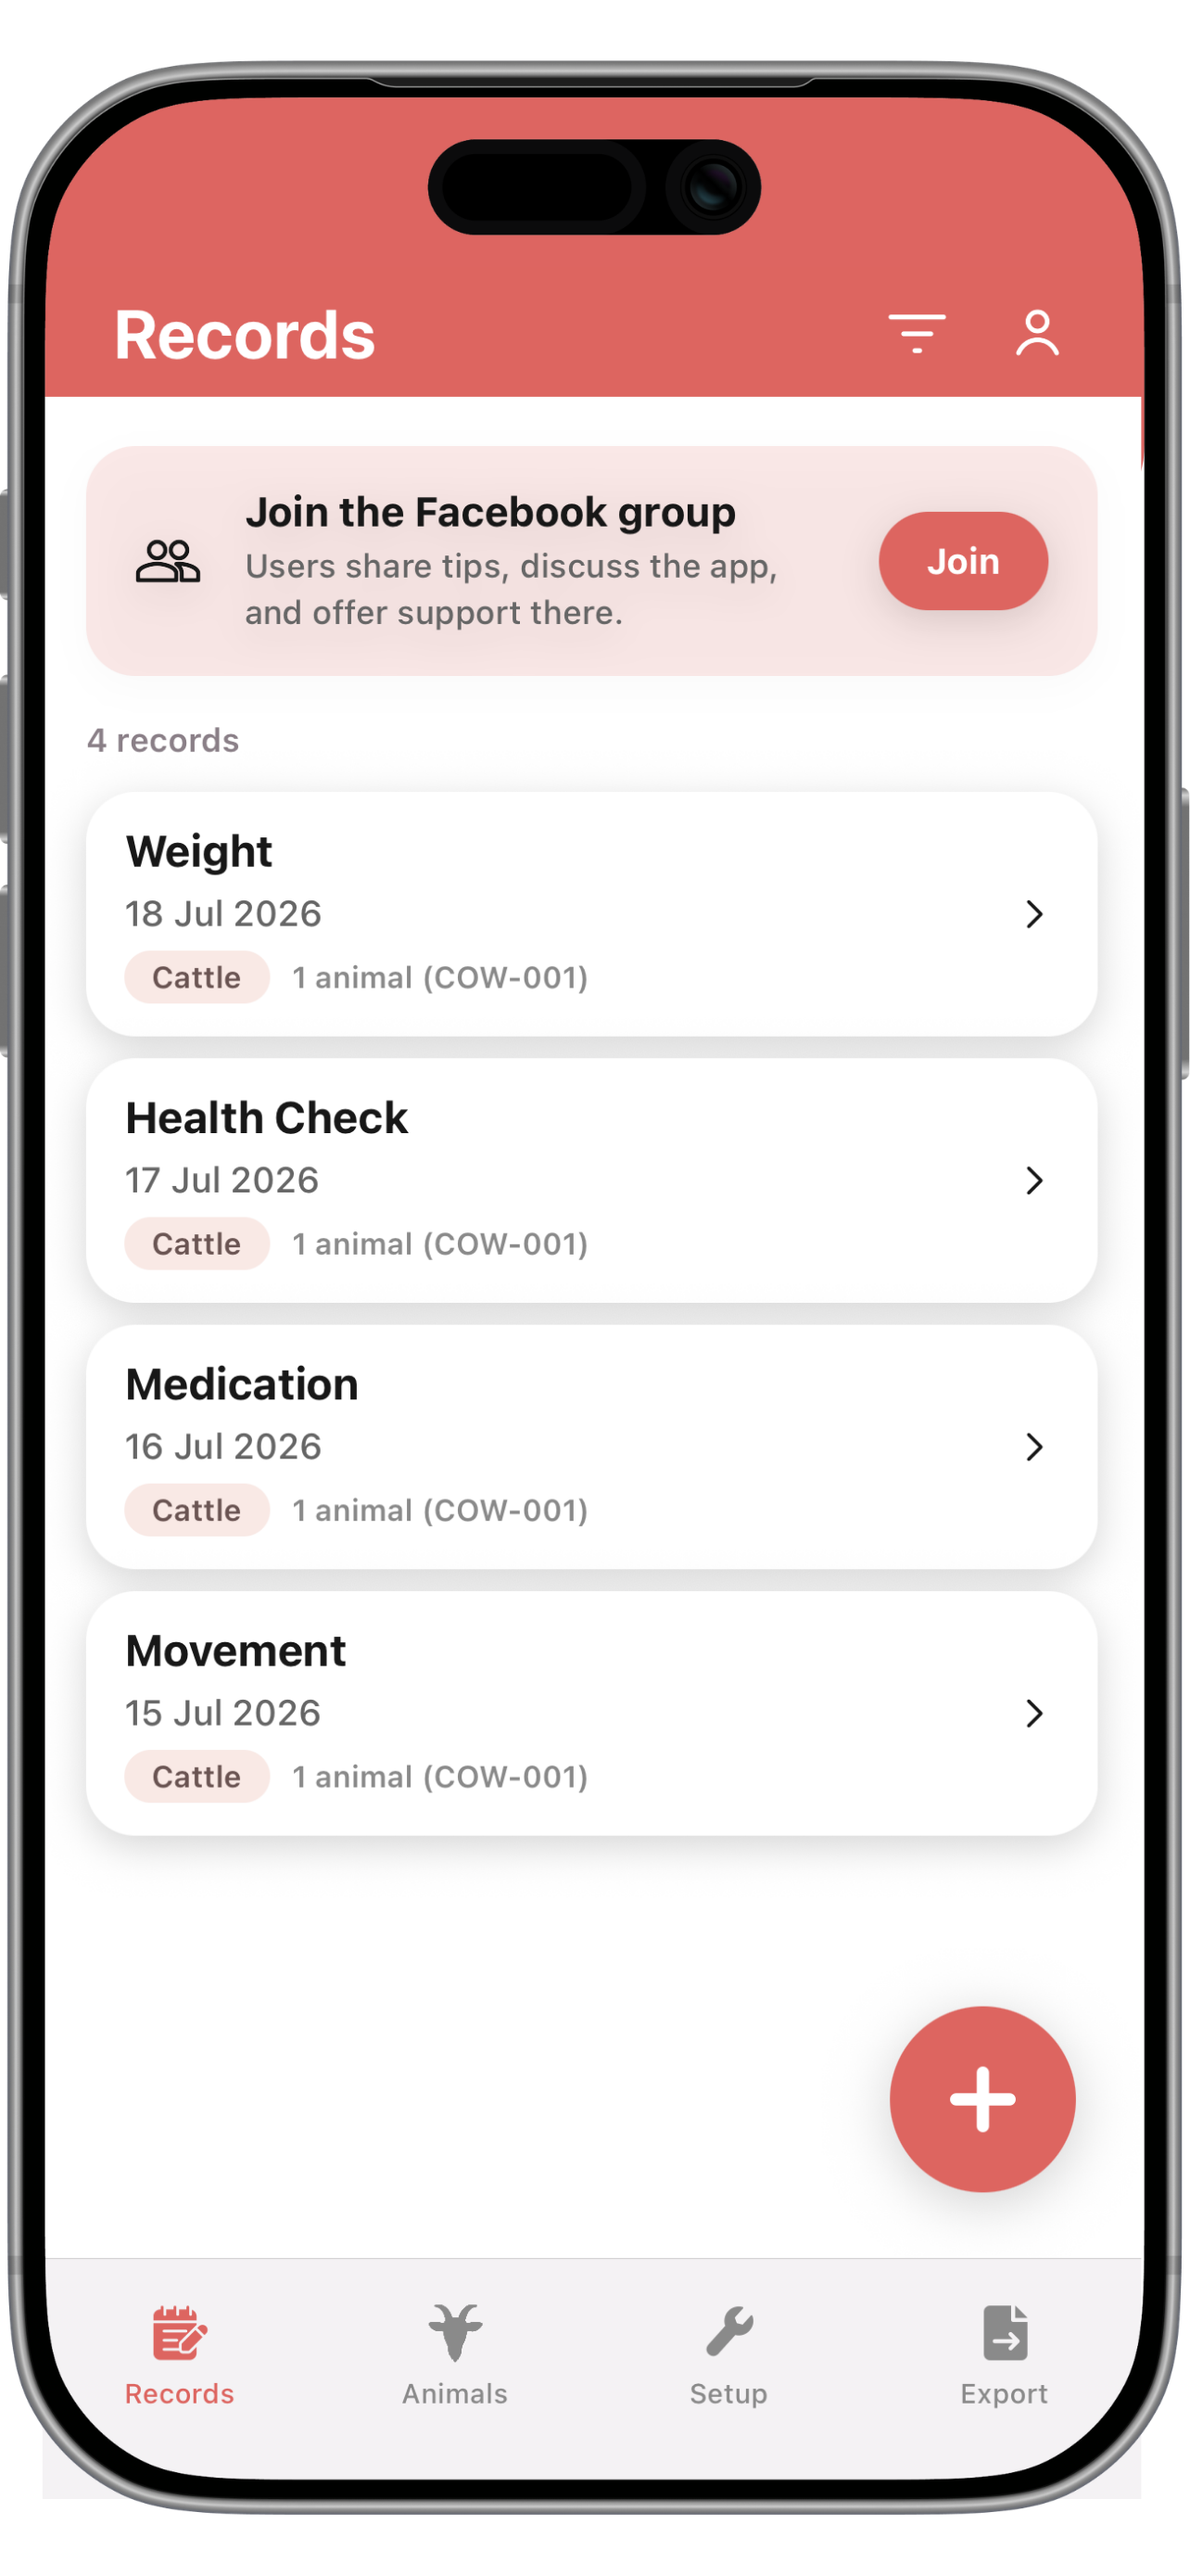
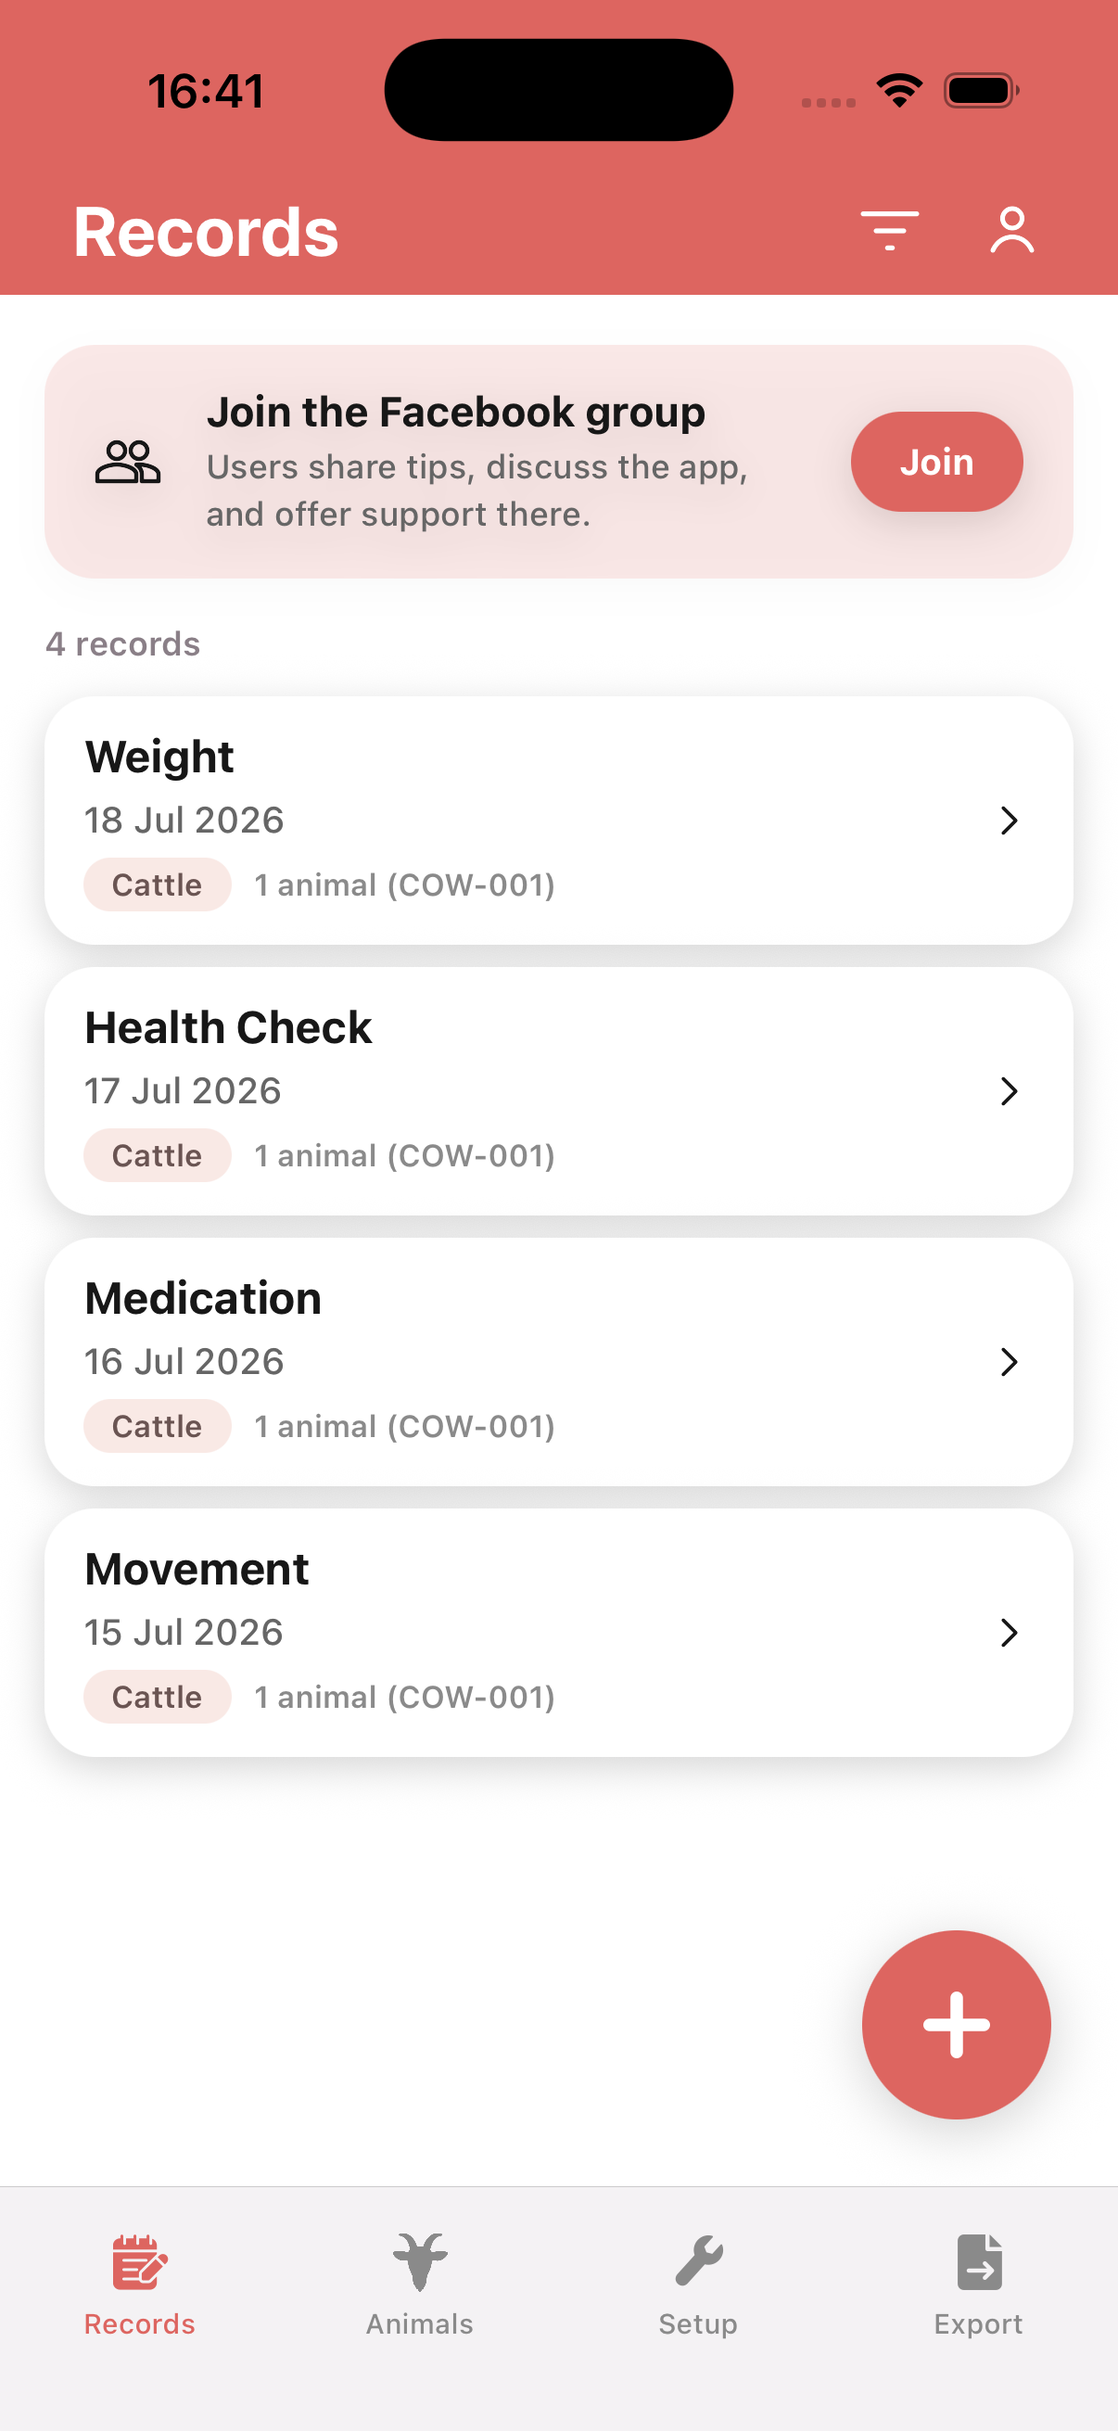
Replace website phone mockups with screenshots

Changed region(s): [[0.0, 0.0, 1.0, 0.9886]]

diff --git a/docs/styles.css b/docs/styles.css
@@ -314,95 +314,51 @@ h2,
   gap: 20px;
 }
 
-.hero-phone-stack {
+.hero-shot-stack {
   position: relative;
-  width: min(360px, 100%);
-  min-height: 560px;
+  width: min(520px, 100%);
+  min-height: 420px;
 }
 
-.hero-phone,
-.phone-placeholder {
-  width: min(270px, 100%);
-  aspect-ratio: 9 / 18;
-  padding: 14px;
-  border-radius: 32px;
-  background: #111;
-  box-shadow: 0 28px 50px rgba(0, 0, 0, 0.16);
+.hero-shot,
+.screenshot-frame {
+  margin: 0;
+  overflow: hidden;
+  border-radius: 26px;
+  background: rgba(255, 255, 255, 0.88);
+  border: 1px solid rgba(31, 27, 23, 0.08);
+  box-shadow: 0 28px 50px rgba(0, 0, 0, 0.14);
 }
 
-.hero-phone-live {
-  width: min(300px, 100%);
-  box-shadow: none;
+.hero-shot {
+  position: absolute;
+  width: min(320px, 100%);
 }
 
-.hero-phone-front {
+.hero-shot-front {
   position: relative;
-  left: 170px;
+  left: 192px;
+  top: 18px;
   z-index: 2;
   transform: rotate(5deg);
 }
 
-.hero-phone-back {
-  position: absolute;
-  inset: 34px auto auto 34px;
+.hero-shot-back {
+  inset: 26px auto auto 16px;
   z-index: 1;
   transform: rotate(-5deg);
   opacity: 0.98;
 }
 
-.hero-phone-live img {
+.hero-shot img,
+.feature-shot {
   width: 100%;
-  height: calc(100% - 0px);
-  object-fit: cover;
-  border-radius: 22px;
-}
-
-.phone-shot {
-  width: 100%;
-  height: calc(100% - 36px);
-  object-fit: cover;
-  border-radius: 22px;
   display: block;
 }
 
-.phone-top {
-  width: 42%;
-  height: 22px;
-  margin: 0 auto 14px;
-  border-radius: 999px;
-  background: rgba(255, 255, 255, 0.08);
-}
-
-.placeholder-body {
-  height: calc(100% - 36px);
-  border-radius: 22px;
-  background:
-    linear-gradient(180deg, #f5f5f3 0%, #eceae5 100%),
-    repeating-linear-gradient(
-      180deg,
-      rgba(31, 27, 23, 0.06) 0,
-      rgba(31, 27, 23, 0.06) 1px,
-      transparent 1px,
-      transparent 72px
-    );
-  display: flex;
-  flex-direction: column;
-  justify-content: flex-end;
-  padding: 18px;
-  color: var(--warm-charcoal);
-}
-
-.placeholder-label {
-  font-size: 0.76rem;
-  letter-spacing: 0.12em;
-  text-transform: uppercase;
-  opacity: 0.58;
-}
-
-.placeholder-title {
-  margin-top: 8px;
-  font-size: 0.98rem;
-  font-weight: 700;
+.hero-shot img {
+  height: 100%;
+  object-fit: cover;
 }
 
 .offset-card {
@@ -456,20 +412,16 @@ h2,
   grid-template-columns: minmax(280px, 420px) minmax(220px, 300px);
 }
 
-.feature-story-phone {
+.feature-story-shot {
   width: min(300px, 100%);
   margin: 0;
   transform: none;
-  box-shadow: none;
+  align-self: stretch;
 }
 
-.feature-story-phone .phone-top {
-  display: none;
-}
-
-.feature-story-phone .phone-shot {
+.feature-shot {
   height: 100%;
-  border-radius: 22px;
+  object-fit: cover;
 }
 
 .feature-story:first-child {
@@ -715,24 +667,23 @@ h2,
     grid-template-columns: 1fr;
   }
 
-  .hero-phone-stack {
-    width: min(320px, 100%);
-    min-height: 500px;
+  .hero-shot-stack {
+    width: min(440px, 100%);
+    min-height: 360px;
     margin-left: 0;
   }
 
-  .hero-phone-live {
-    width: min(248px, 100%);
-    transform: none;
+  .hero-shot {
+    width: min(256px, 78vw);
   }
 
-  .hero-phone-front {
-    left: 108px;
+  .hero-shot-front {
+    left: 144px;
+    top: 10px;
   }
 
-  .hero-phone-back {
-    width: min(208px, 84%);
-    inset: 30px auto auto 12px;
+  .hero-shot-back {
+    inset: 26px auto auto 8px;
   }
 
   .feature-story {
@@ -777,7 +728,7 @@ h2,
     justify-self: end;
   }
 
-  .feature-story-phone {
+  .feature-story-shot {
     grid-area: phone;
     width: min(212px, 60vw);
     justify-self: center;
@@ -855,27 +806,22 @@ h2,
     font-size: clamp(2.1rem, 12vw, 3.4rem);
   }
 
-  .hero-phone,
-  .phone-placeholder {
-    width: min(280px, 100%);
+  .hero-shot-stack {
+    width: min(300px, 100%);
+    min-height: 246px;
   }
 
-  .hero-phone-stack {
-    width: min(276px, 100%);
-    min-height: 420px;
+  .hero-shot {
+    width: min(178px, 62vw);
   }
 
-  .hero-phone-live {
-    width: min(206px, 100%);
+  .hero-shot-front {
+    left: 100px;
+    top: 12px;
   }
 
-  .hero-phone-front {
-    left: 82px;
-  }
-
-  .hero-phone-back {
-    width: min(170px, 82%);
-    inset: 24px auto auto 4px;
+  .hero-shot-back {
+    inset: 18px auto auto 0;
   }
 
   .feature-story {
@@ -916,7 +862,7 @@ h2,
     line-height: 1.5;
   }
 
-  .feature-story-phone {
+  .feature-story-shot {
     width: min(164px, 46vw);
     margin-top: 0;
   }

diff --git a/docs/index.html b/docs/index.html
@@ -44,11 +44,11 @@
           </div>
         </div>
 
-        <div class="hero-visual hero-phone-stack">
-          <figure class="hero-phone hero-phone-live hero-phone-back">
+        <div class="hero-visual hero-shot-stack">
+          <figure class="hero-shot hero-shot-back">
             <img src="./images/screenshots/add-record-current.png" alt="Add Record screen in LivestockBook" loading="eager" />
           </figure>
-          <figure class="hero-phone hero-phone-live hero-phone-front">
+          <figure class="hero-shot hero-shot-front">
             <img src="./images/screenshots/animals-current.png" alt="Animals screen in LivestockBook" loading="eager" />
           </figure>
         </div>
@@ -62,9 +62,8 @@
     <div class="page-shell">
       <section class="feature-story-list" id="features">
         <article class="feature-story">
-          <figure class="phone-placeholder feature-story-phone">
-            <div class="phone-top"></div>
-            <img class="phone-shot" src="./images/screenshots/add-record-current.png" alt="Add Record screen in LivestockBook" loading="lazy" />
+          <figure class="screenshot-frame feature-story-shot">
+            <img class="feature-shot" src="./images/screenshots/add-record-current.png" alt="Add Record screen in LivestockBook" loading="lazy" />
           </figure>
           <div class="feature-card feature-story-copy">
             <p class="eyebrow">Add Record</p>
@@ -79,16 +78,14 @@
             <h2>Keep animal records organised</h2>
             <p>See your livestock in one clear register so details stay easy to find and maintain.</p>
           </div>
-          <figure class="phone-placeholder feature-story-phone">
-            <div class="phone-top"></div>
-            <img class="phone-shot" src="./images/screenshots/animals-current.png" alt="Animal page in LivestockBook" loading="lazy" />
+          <figure class="screenshot-frame feature-story-shot">
+            <img class="feature-shot" src="./images/screenshots/animals-current.png" alt="Animal page in LivestockBook" loading="lazy" />
           </figure>
         </article>
 
         <article class="feature-story">
-          <figure class="phone-placeholder feature-story-phone">
-            <div class="phone-top"></div>
-            <img class="phone-shot" src="./images/screenshots/setup.png" alt="Setup screen in LivestockBook" loading="lazy" />
+          <figure class="screenshot-frame feature-story-shot">
+            <img class="feature-shot" src="./images/screenshots/setup.png" alt="Setup screen in LivestockBook" loading="lazy" />
           </figure>
           <div class="feature-card feature-story-copy">
             <p class="eyebrow">Setup</p>
@@ -103,9 +100,8 @@
             <h2>Export only what you need</h2>
             <p>Turn the same records into clean exports when you need to share or keep compliant paperwork ready.</p>
           </div>
-          <figure class="phone-placeholder feature-story-phone">
-            <div class="phone-top"></div>
-            <img class="phone-shot" src="./images/screenshots/export-current.png" alt="Export screen in LivestockBook" loading="lazy" />
+          <figure class="screenshot-frame feature-story-shot">
+            <img class="feature-shot" src="./images/screenshots/export-current.png" alt="Export screen in LivestockBook" loading="lazy" />
           </figure>
         </article>
       </section>
